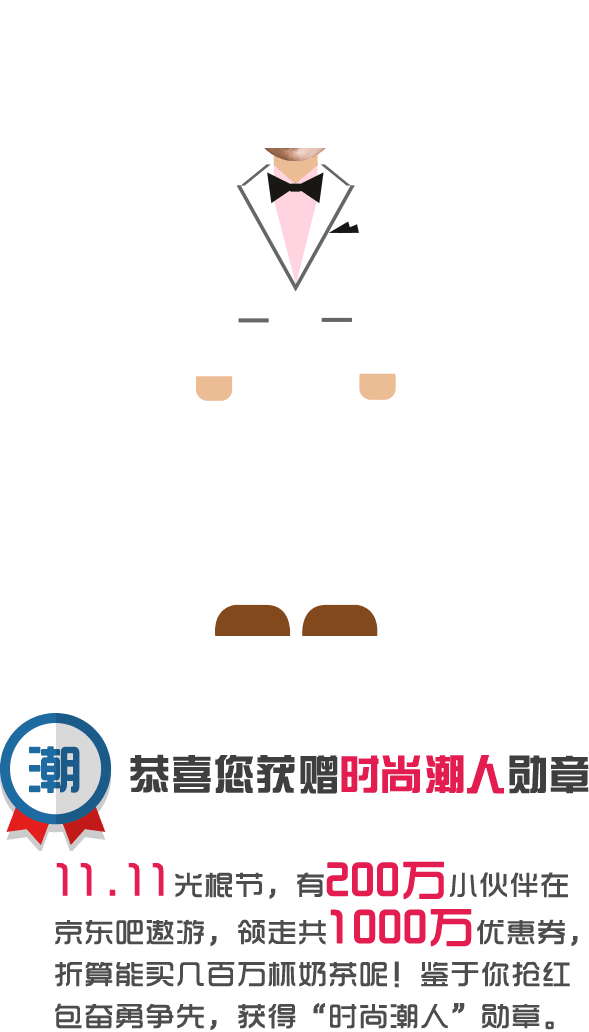
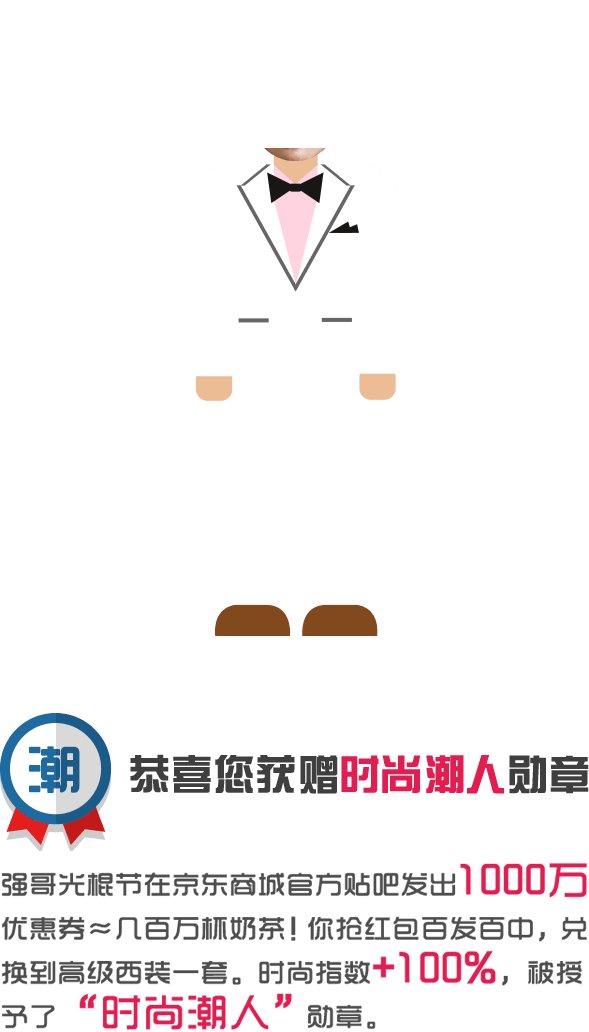
最后文案修改

Changed region(s): [[0.0, 0.8372, 1.0, 1.0]]

diff --git a/templates/ann.html b/templates/ann.html
@@ -8,7 +8,7 @@
 	<link rel="stylesheet" type="text/css" href="http://ssldh5.oss-cn-beijing.aliyuncs.com/tieba/css/ann/animate2.css">
 	
 	<link rel="stylesheet" type="text/css" href="http://morry.oss-cn-beijing.aliyuncs.com/tieba/css/anniversary/layout6.css">
-	<link rel="stylesheet" type="text/css" href="http://morry.oss-cn-beijing.aliyuncs.com/tieba/css/anniversary/icon3.css">
+	<link rel="stylesheet" type="text/css" href="/static/css/anniversary2/icon3.css">
 	<link rel="stylesheet" type="text/css" href="http://morry.oss-cn-beijing.aliyuncs.com/tieba/css/lib/animate.css">	
 	<link rel="stylesheet" type="text/css" href="http://morry.oss-cn-beijing.aliyuncs.com/tieba/css/anniversary/time.css">
 
@@ -35,6 +35,31 @@
 	}
 	.moveon{
 		z-index: 1000000;
+	}
+	.flyfly{
+		z-index: 10000;
+		width: 200px;
+		  position: absolute;
+	  left: 15px;
+	  top: -20px;
+	}
+	.anjian-result{
+		  position: absolute;
+	  bottom: 100px;
+	  left: 70px;
+	}
+	.map-tip1 {
+	  left: 284px;
+	  top: 140px;}
+	.map-tip3.map-tip {
+	  left: 270px;
+	  top: 470px;
+	  width: 300px;
+	}
+	.map-tip4 {
+	  left: 230px;
+	  top: 670px;
+	  width: 300px;
 	}
 	</style>
 	
@@ -71,7 +96,7 @@
 	        		<i class="icon3 i-go"></i>
 	        	</div>
 	        	<div class="click">
-					<p id="j-inv-text" class="inv-text">不想继续平庸？点击"go"按钮接受邀请，跟贴吧超人哥一起去改变未来的命运吧！</p>
+					<p id="j-inv-text" class="inv-text">不想继续当平凡的地球人？接受邀请开始改变命运。GO！GO！GO！</p>
 					<div class="ufo">
 						<i class="icon3 i-needle1 needle1-anime"></i>
 						<i class="icon3 i-needle2 needle2-anime"></i>
@@ -95,8 +120,7 @@
 		        		<div id="j-fire" class="fire moveupdown"></div>
 		        		<i class="icon2 i-ship moveupdown"></i>
 		        	</div>
-		        	<!-- <i class="icon2 i-sudden"></i> -->
-		        	<img class="sudden" src="http://morry.oss-cn-beijing.aliyuncs.com/tieba/css/anniversary/icon/sudden2.png">
+		        	<img class="sudden" src="/static/css/anniversary2/icon/sudden3.png">
 					<i class="icon2 i-black-cloud moveleftback-slow"></i>
 					<i class="icon2 i-trees"></i> 		
 	        	</div>
@@ -159,7 +183,7 @@
 	        	<i class="icon6 i-jingdonghao-light"></i>
 	        	<i class="icon6 i-jingdonghao"></i>
 	        	<img class="lucky" src="http://morry.oss-cn-beijing.aliyuncs.com/tieba/css/anniversary/icon/lucky2.png">
-				<p id="j-jingdong-text" class="inv-text" style="  bottom: 180px;">Hello惠星boss就爱给粉丝发优惠券！挑战抢红包，抢得越多将得到越酷炫的装备，从衣装开始改变你命运。</p>
+				<p id="j-jingdong-text" class="inv-text" style="  bottom: 180px;">强哥喜获娇妻，在You惠星狂撒红包!想要获得改变命运的行头猛戳收集爱心。</p>
 				<div class="ufo">
 					<i class="icon3 i-needle1"></i>
 					<i class="icon3 i-needle2"></i>
@@ -196,13 +220,13 @@
 	        	<i class="icon8 i-saoba"></i>
 	        	<i class="icon8 i-huojian"></i>
 	        	<i class="icon8 i-qiqiu"></i>
-	        	<img class="zhongxin-card" id="j-swipe-card" src="http://morry.oss-cn-beijing.aliyuncs.com/tieba/css/anniversary/icon/card.png">
+	        	<img class="zhongxin-card" id="j-swipe-card" src="/static/css/anniversary2/icon/card2.png">
 	        	<i class="icon8 i-pos"></i>
 	        	<p class="money-wrapper">M. <span id="money">0</span></p>
 	        	<i class="icon8 i-card-arrow"></i>
 	        	<i class="icon8 i-card-arrow-reverse" style="display:none"></i>
-	        	<img style="position:absolute; top: 370px; left: 210px;" id="j-swipe-btn" src="http://ssldh5.oss-cn-beijing.aliyuncs.com/tieba/css/ann/icon/swipe2.png">
-				<p style=" bottom: 185px;" id="j-zhongxin-text" class="inv-text">玛尼星就是有钱任性,刷壕卡送壕礼!手速越快刷出的金额越高,奖励你的座驾就越拉风,从出行改变你的命运。</p>
+	        	<img style="position:absolute; top: 760px; left: 210px;" id="j-swipe-btn" src="/static/css/anniversary2/icon/swipe3.png">
+				<p style=" bottom: 185px;" id="j-zhongxin-text" class="inv-text">玛尼星有钱任性大酬宾，刷中信贴吧壕卡送福利!想要获得增加"壕"气的拉轰座驾？拼手速去吧</p>
 				<div class="ufo">
 					<i class="icon3 i-needle1"></i>
 					<i class="icon3 i-needle2"></i>
@@ -236,12 +260,11 @@
 	        <div class="swiper-slide m1" id="p10">
 	        	<img class="geshou-light1" src="/static/css/anniversary2/icon/geshou-light.png">
 	        	<img class="geshou-light2" src="/static/css/anniversary2/icon/geshou-light.png">
-	        	<img class="geshou" src="/static/css/anniversary2/icon/geshou.png">
+	        	<img class="geshou" src="/static/css/anniversary2/icon/geshou2.png">
 	        	<img class="geshou-button1 j-geshou-btn" src="http://morry.oss-cn-beijing.aliyuncs.com/tieba/css/anniversary/icon/button2.png">
 	        	<img class="geshou-button2 j-geshou-btn" src="http://morry.oss-cn-beijing.aliyuncs.com/tieba/css/anniversary/icon/button2.png">
-	        	<img class="point" style="position: absolute;top: 820px;left: 255px;z-index:10000;" src="http://ssldh5.oss-cn-beijing.aliyuncs.com/tieba/css/ann/icon/vote1.png">
 	        	
-				<p id="j-geshou-text" class="inv-text" style="width:390px;bottom:180px;margin-left:-195px;">综艺星的镇星之宝就是粉丝互动投票,你有幸进入综艺星歌手大赛决赛现场,投票给你喜欢的歌手赢取人气秘籍,提升魅力改变你的命运!</p>
+				<p id="j-geshou-text" class="inv-text" style="width:390px;bottom:180px;margin-left:-195px;">综艺星正在搞粉丝投票活动，支持率决定谁能夺冠，请投出你的一票，看看你对人气的掌控力！</p>
 				<div class="ufo">
 					<i class="icon3 i-needle1"></i>
 					<i class="icon3 i-needle2"></i>
@@ -327,8 +350,8 @@
 	        <div class="swiper-slide m1" id="p17">	
 	        	<img class="share-text" id="j-share-text" src="">
 	        	<img class="share-light" src="http://morry.oss-cn-beijing.aliyuncs.com/tieba/css/anniversary/result/final/light.png">
-	        	<a href="http://tieba.baidu.com/f?kw=贴吧企业平台&ie=utf-8"><img id="j-send-btn" src="http://morry.oss-cn-beijing.aliyuncs.com/tieba/css/anniversary/result/final/btn11.png"></a>
-	        	<img id="j-share-btn" src="http://morry.oss-cn-beijing.aliyuncs.com/tieba/css/anniversary/result/final/btn22.png">
+	        	<a href="http://tieba.baidu.com/f?kw=贴吧企业平台&ie=utf-8"><img id="j-send-btn" src="/static/css/anniversary2/result/final/bt1.png"></a>
+	        	<img id="j-share-btn" src="/static/css/anniversary2/result/final/bt2.png">
 	        </div>
 
 	    </div>
@@ -354,11 +377,17 @@
 
 		wx.ready(function () {
 			wx.onMenuShareAppMessage({		    
-				title: '居然有人在贴吧玩出挖掘机变成大明星，据说还有更多能改变你未来命运的酷炫装备，快去试试！', // 分享标题
+				title: '那一夜我上了ta，之后的人生…', // 分享标题
 			    link: 'http://h5.ssld-vi.com/tieba/ann', // 分享链接		
 			    imgUrl: 'http://7xjv0c.com1.z0.glb.clouddn.com/cover2.jpg' ,  
-			    desc: '居然有人在贴吧玩出挖掘机变成大明星，据说还有更多能改变你未来命运的酷炫装备，快去试试！',
-			});
+			    desc: '那一夜我上了ta，之后的人生…',
+			});	
+			wx.onMenuShareTimeline({		    
+				title: '那一夜我上了ta，之后的人生…', // 分享标题
+			    link: 'http://h5.ssld-vi.com/tieba/ann', // 分享链接		
+			    imgUrl: 'http://7xjv0c.com1.z0.glb.clouddn.com/cover2.jpg' ,  
+			});	
+			
 		});		
 	</script>	
 	<script type="text/javascript" src="/static/js/anniversary/ann.js?v=6.1"></script>

diff --git a/static/js/anniversary/ann.js b/static/js/anniversary/ann.js
@@ -160,6 +160,15 @@ var securyProcess = function(){
 	arrowTimer = setInterval(function(){
 		if(aCount==10){
 			clearInterval(arrowTimer);
+    		anjianLevel = parseInt(Math.random()*2)+1;
+    		if(anjianLevel==1){
+				$("#p5").append('<img class="anjian-result" src="/static/css/anniversary2/result/mapr/a1.png">')
+			}else{
+				$("#p5").append('<img class="anjian-result" src="/static/css/anniversary2/result/mapr/a2.png">')
+			}
+	    	$("#j-secury").hide();
+	    	$("#j-retake").hide();
+
 			aCount=0;
 			return;
 		}
@@ -365,11 +374,10 @@ var goStage = function(stageNum){
     	jQarrow.css({'top': '385px', 'left':'315px'});
     	jQlocation.css({'top': '675px'});
     	// 文案显示
-    	anjianLevel = parseInt(Math.random()*2)+1;
     	if(anjianLevel==1){
-    		jQmapTip.show().addClass('map-tip1').attr('src', '/static/css/anniversary2/result/map/anjian/1.png');
+    		jQmapTip.show().addClass('map-tip1').attr('src', '/static/css/anniversary2/result/mapr/j1.png');
     	}else{
-			jQmapTip.show().addClass('map-tip1').attr('src', '/static/css/anniversary2/result/map/anjian/2.png');
+			jQmapTip.show().addClass('map-tip1').attr('src', '/static/css/anniversary2/result/mapr/j2.png');
     	}	
     	$('.i-huixing').bind('click', function(){
     		// 清空安检
@@ -401,6 +409,11 @@ var goStage = function(stageNum){
     	$(".i-mani-lock").removeClass('i-mani-lock').addClass('i-mani');
     	jQarrow.addClass('flash animated').css({'top': '250px', 'left': '645px'});
     	jQlocation.css({'top': '275px','left':'260px'});
+    	if(jingdongLevel==1){
+    		jQmapTip.show().removeClass('map-tip1').addClass('map-tip2').attr('src', '/static/css/anniversary2/result/mapr/z1.png');
+    	}else{
+			jQmapTip.show().removeClass('map-tip1').addClass('map-tip2').attr('src', '/static/css/anniversary2/result/mapr/z2.png');
+    	}	
     	$('.i-mani').bind('click', function(){
     		// 清空京东
 			$("#p6").css('background', 'transparent').empty();
@@ -438,16 +451,15 @@ var goStage = function(stageNum){
 
     		swiper.slideTo(9);
     	});
+    	jQmapTip.removeClass('map-tip2').addClass('map-tip3').attr('src', '/static/css/anniversary2/result/mapr/g1.png');
 
-    	if(zhongxinLevel==1){
-    		jQmapTip.removeClass('map-tip2').addClass('map-tip3').attr('src', 'http://morry.oss-cn-beijing.aliyuncs.com/tieba/css/anniversary/result/map/zhongxin/1.png');
-    	}else{
-			jQmapTip.removeClass('map-tip2').addClass('map-tip3').attr('src', 'http://morry.oss-cn-beijing.aliyuncs.com/tieba/css/anniversary/result/map/zhongxin/2.png');
-    	}    	
+  	
 	}else if(stageNum==5){
     	$(".i-k-lock").removeClass('i-k-lock').addClass('i-k');
     	jQarrow.css({'top': '1000px', 'left': '590px'});
     	jQlocation.css({'top': '610px', 'left': '600px'});
+    	jQmapTip.removeClass('map-tip3').addClass('map-tip4').attr('src', '/static/css/anniversary2/result/mapr/t1.png');
+
     	$('.i-k').bind('click', function(){
 			jQarrow.removeClass("flash animated delay0_8");
     		swiper.slideTo(11);
@@ -464,7 +476,7 @@ $("#j-secury").bind('click', function(){
     currentStage = 2;
     setTimeout(function(){
     	goStage(currentStage);
-    }, 2000)
+    }, 4000)
 });
 
 // 完成第三关
@@ -614,7 +626,7 @@ var showFinal=function(jingdongLevel, zhongxinLevel){
 		jQgsResult.attr('src', '/static/css/anniversary2/result/geshou/2.png?v=1.5');
 		jQshareText.attr('src','/static/css/anniversary2/result/final/4.png?v=1.1');
 	}
-	jQfinalResult.attr('src', '/static/css/anniversary2/result/final/final.png');
+	jQfinalResult.attr('src', '/static/css/anniversary2/result/final/final2.png');
 
 }
 
@@ -644,8 +656,8 @@ touch.on('#p11', 'tap', '#j-move-stage-5', function(ev){
 
 $("#j-enter").bind('click', function(){
 	$("#p4").empty();
-	$('#p16').css('background-image', 'url("/static/css/anniversary2/bg/p16n.jpg?v=1.1")');
-	$('#p17').css('background-image', 'url("/static/css/anniversary2/bg/p17.jpg?v=1.1")');
+	$('#p16').css('background-image', 'url("/static/css/anniversary2/bg/p16n.jpg?v=1.2")');
+	$('#p17').css('background-image', 'url("/static/css/anniversary2/bg/p17.jpg?v=1.2")');
 
 	swiper.slideNext();
 	removeAnimation('#firework1', fireworkTimer1);	
@@ -673,6 +685,7 @@ touch.on('#p15', 'tap', function(ev){
 	$(".share-light").addClass('flash1 animated0_5');
 });
 
+var finalMsg2 = '';
 $("#fill").bind('click', function(){	
 	$("#p15").empty();
 	if( $(".share").length<=0 ){
@@ -680,8 +693,9 @@ $("#fill").bind('click', function(){
 	}
 	var usrName = $('#user-name').val();
 	finalMsg = usrName+finalMsg;
+	finalMsg2 = usrName+'和ta发生亲密关系后，整个人居然变成了这样！'
 	wx.onMenuShareAppMessage({		    
-		title: '居然有人在贴吧玩出挖掘机变成大明星，据说还有更多能改变你未来命运的酷炫装备，快去试试！', // 分享标题
+		title: '那一夜我上了ta，之后的人生…', // 分享标题
 	    link: 'http://h5.ssld-vi.com/tieba/ann', // 分享链接		
 	    imgUrl: 'http://7xjv0c.com1.z0.glb.clouddn.com/cover2.jpg' ,  
 	    desc: finalMsg,

diff --git a/templates/index.html b/templates/index.html
@@ -1,4 +1,3 @@
-
 <html>
 <head>
 	<title>西游新记－趣味互联网大数据带你降妖除魔</title>
@@ -38,11 +37,9 @@
     .tx-1-4{
 		font-size: 1.4em;
 	}
-
 	.tx-1-3{
 		font-size: 1.3em;
 	}
-
 	.tx-1-2{
 		font-size: 1.2em;
 	}
@@ -54,8 +51,6 @@
 		overflow: hidden;
 		visibility: hidden;
 	}
-
-
 	.dialog{
 		padding: 10px;
 		background: black;
@@ -67,8 +62,6 @@
 		line-height: 26px;
 		opacity: 0.6;
 	}
-
-
 	@-webkit-keyframes btnRotate {
 	0% {
 	    -webkit-transform: rotateZ(0deg);
@@ -91,15 +84,12 @@
 	.i-circle-out{
 	    -webkit-animation: btnRotateReserve 30s linear infinite;
 	}
-
     .swiper-container {
         width: 100%;
         height: 100%;
         background: #000;
         color: white;
     }
-
-
 	</style>
 <!--script>
 var _hmt = _hmt || [];
@@ -295,7 +285,6 @@ var _hmt = _hmt || [];
 		    jsApiList: ['onMenuShareAppMessage','onMenuShareTimeline'] // 必填，需要使用的JS接口列表，所有JS接口列表见附录2
 		});
 	     wx.ready(function () {
-
 		wx.onMenuShareAppMessage({		    
 			title: '西游新记－趣味互联网大数据带你降妖除魔', // 分享标题
 		    link: 'http://ssld-vi.com/', // 分享链接
@@ -325,10 +314,8 @@ var _hmt = _hmt || [];
   (i[r].q=i[r].q||[]).push(arguments)},i[r].l=1*new Date();a=s.createElement(o),
   m=s.getElementsByTagName(o)[0];a.async=1;a.src=g;m.parentNode.insertBefore(a,m)
   })(window,document,'script','//www.google-analytics.com/analytics.js','ga');
-
   ga('create', 'UA-48160253-3', 'auto');
   ga('send', 'pageview');
-
 </script>
 
 </body>

diff --git a/static/css/anniversary2/icon3.css b/static/css/anniversary2/icon3.css
@@ -125,7 +125,7 @@
 
 /*星球*/
 .i-planet{
-	background: url(icon/planet2.png);
+	background: url(icon/planet3.png);
 	display: inline-block;
   z-index: 10000;
 }
